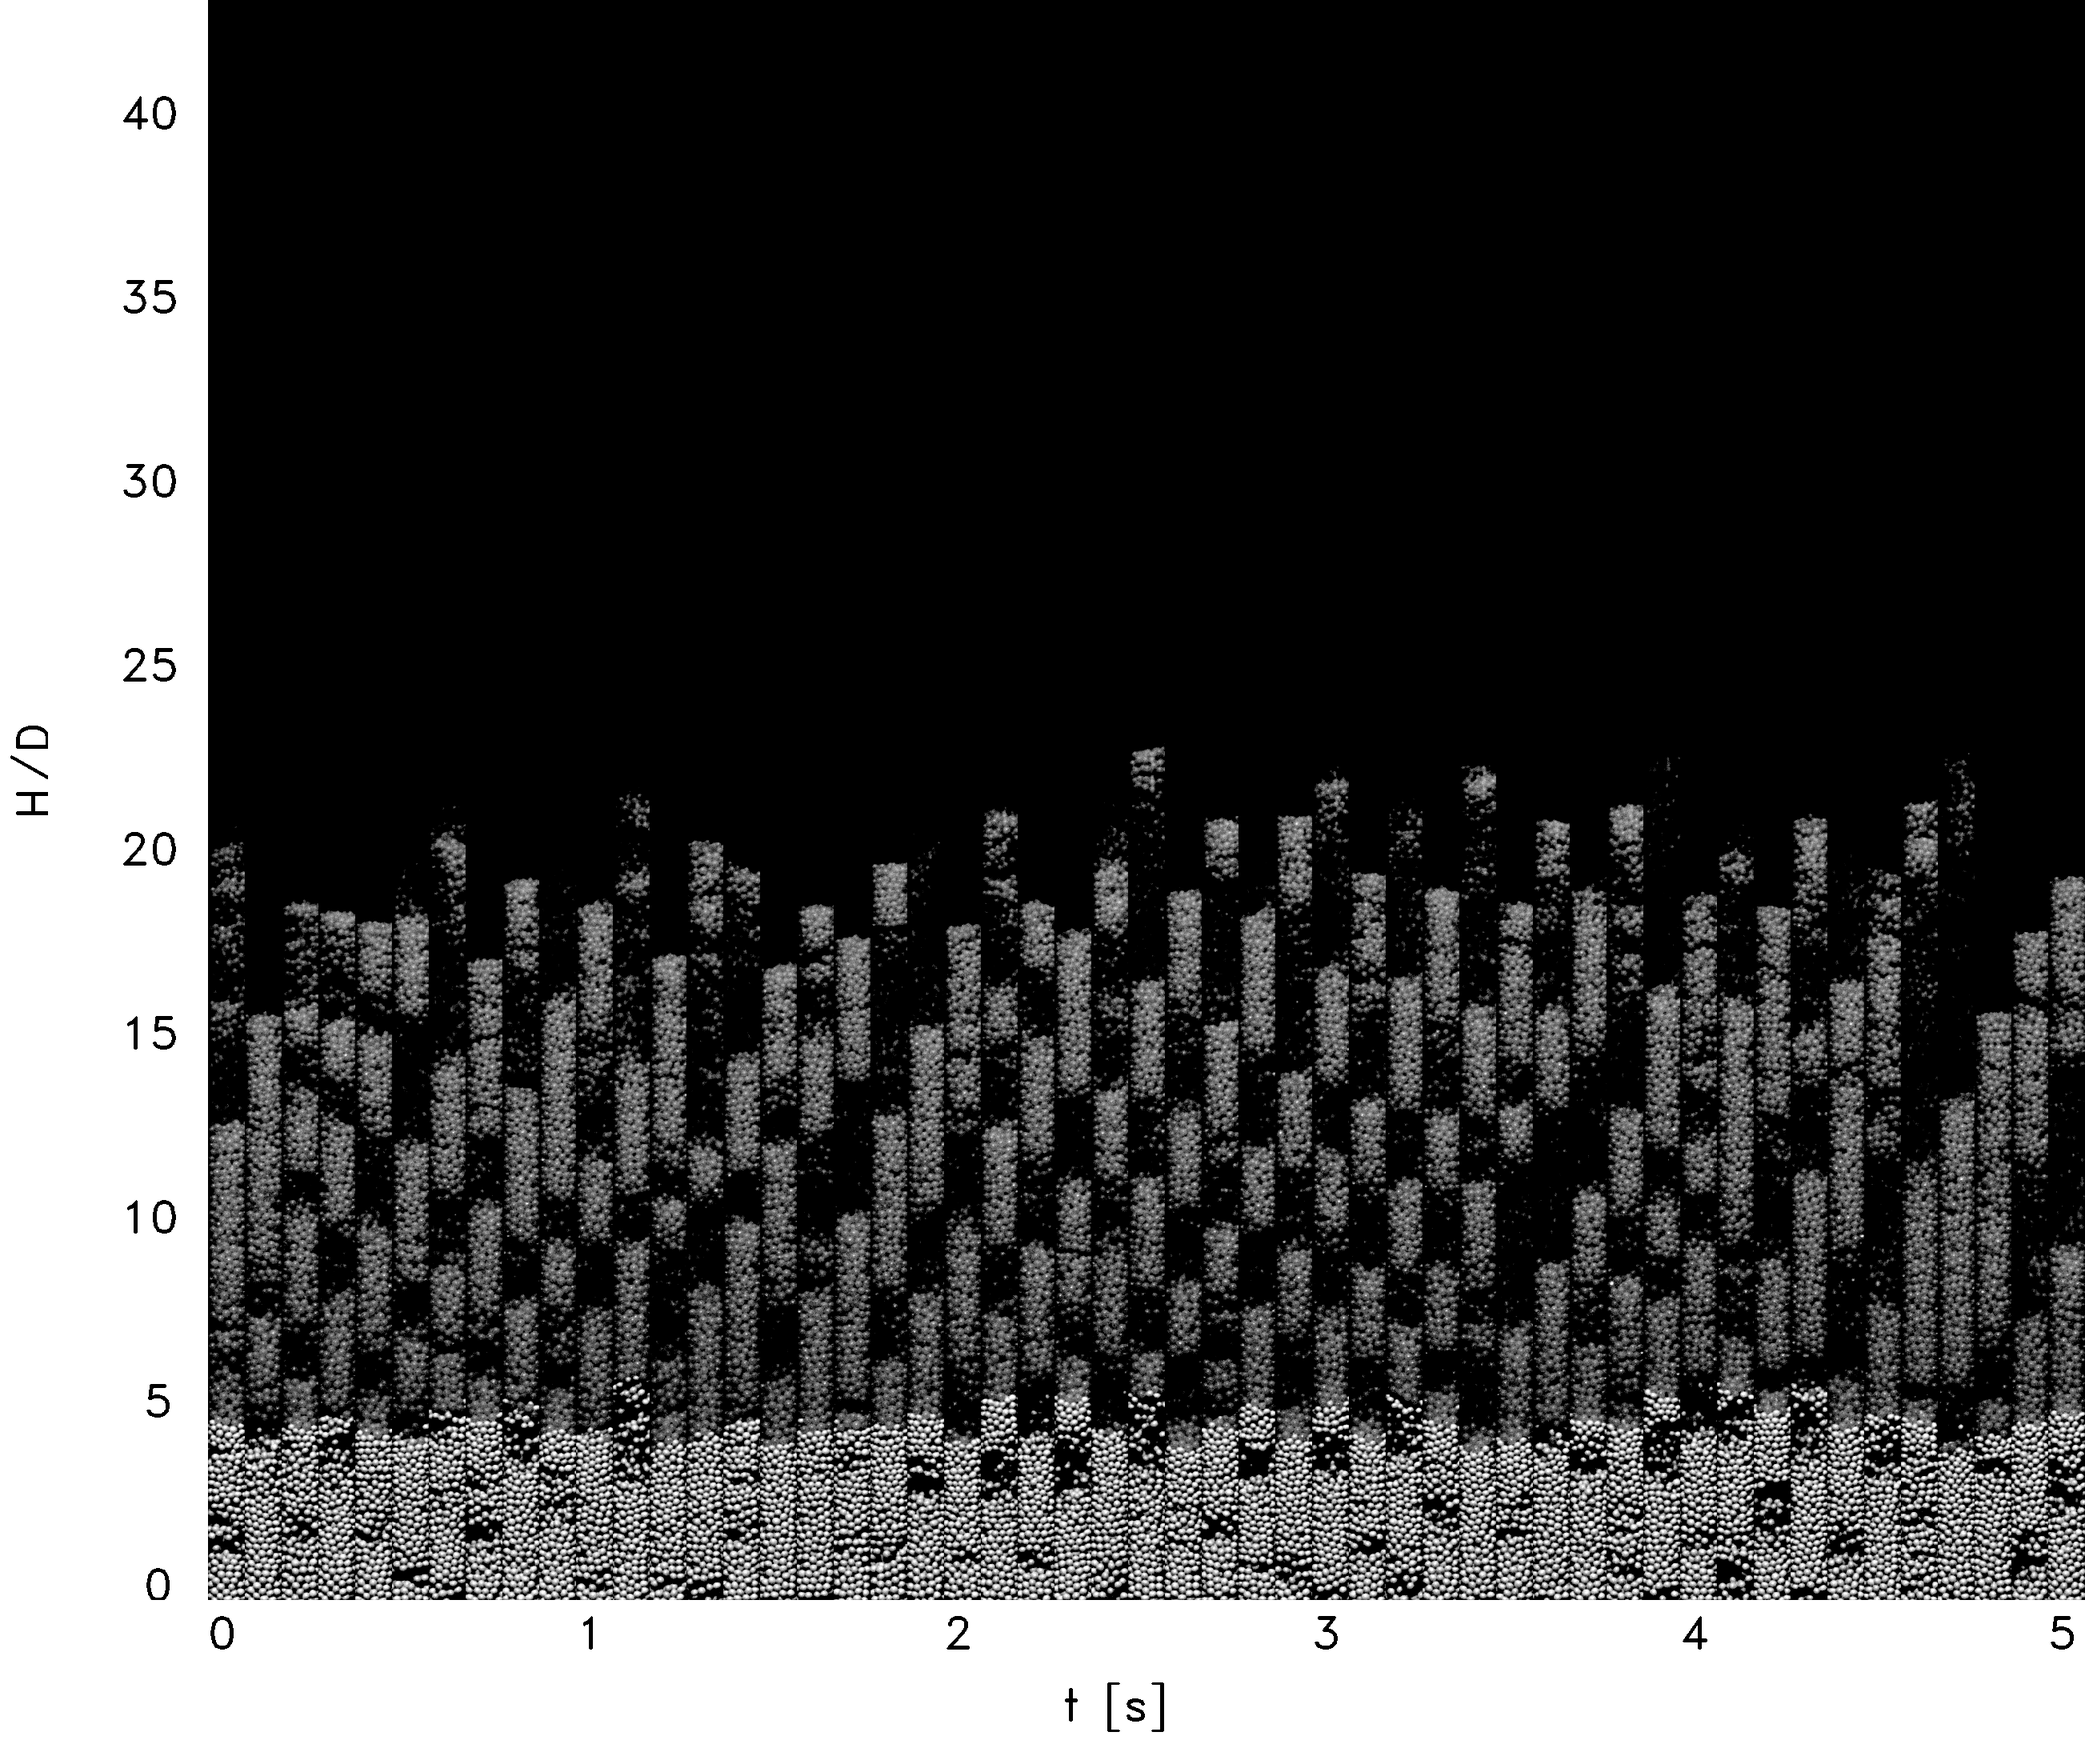
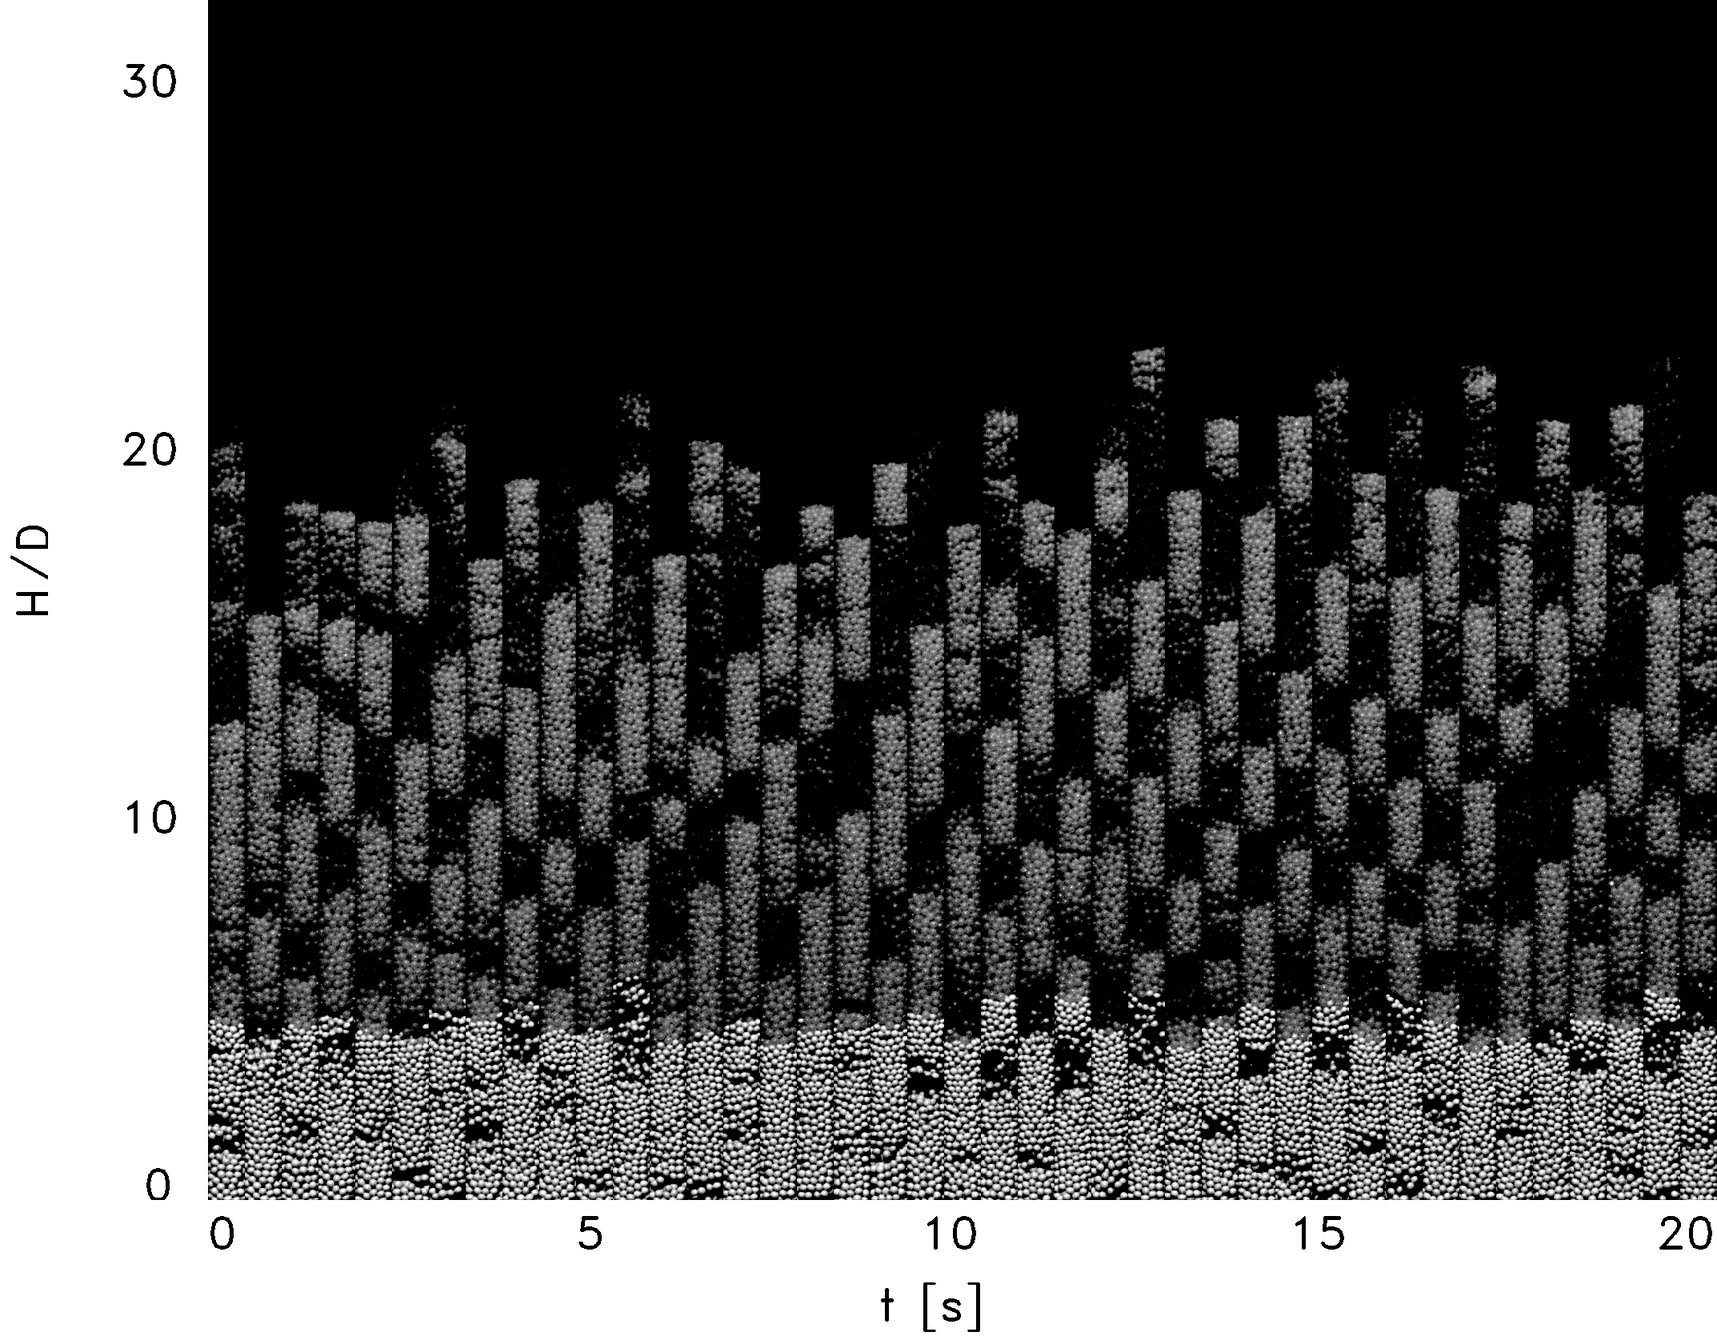
qua jul 19 14:24:14 -03 2023

diff --git a/src/joinImages.cpp b/src/joinImages.cpp
@@ -8,6 +8,8 @@
 #include <vector>
 #include <iostream>
 #include <sstream>
+#include "tclap/CmdLine.h"
+#include "tclap/ValueArg.h"
 
 int frameRate = 1000; //adjust frame rate
 bool makeLegend = true; //prints legends
@@ -86,65 +88,52 @@ void firstPass(cv::Mat& image, int& right, int& left, int& bottom)
 //	cv::destroyWindow("Lines");
 }
 
-// main function
-int main(int argc, char *argv[])
+// join function
+int join(std::string ImagesPath, int initFrame, int skipFrame, int endFrame, int imageHeight, int frameRate, bool makeLegend, int yscale, int numberXdivisions, float textScale)
 {
-	// Constants
-	int initFrame = std::stoi(std::string(argv[2]));
-	int skipFrame = std::stoi(std::string(argv[3]));
-	int endFrame  = std::stoi(std::string(argv[4]));
-	int height = std::stoi(std::string(argv[5]));
-	float D = 3.0; // bed diameter
-	
-	std::string path(argv[1]);
-	//std::cout << path << std::endl;
-
-	//cv::namedWindow("Joined Image",cv::WINDOW_NORMAL);
-	
 	// first frame
 	std::stringstream initFrameStr;
 	initFrameStr << std::setfill('0') << std::setw(5) << initFrame;
 //	initFrame += skipFrame;
-	cv::Mat joinedImage = imread(path + "image_" + initFrameStr.str() + ".tif", cv::IMREAD_GRAYSCALE);
+	cv::Mat joinedImage = imread(ImagesPath + "image_" + initFrameStr.str() + ".tif", cv::IMREAD_GRAYSCALE);
 	cv::rotate(joinedImage, joinedImage, cv::ROTATE_90_CLOCKWISE);
 
 	// find the borders of the bed
 	int right, left, bottom;
 	firstPass(joinedImage, right, left, bottom);
-	float scale = (float)(left - right) / 3.0; // bed scale
+	float scale = (float)(left - right); // bed scale
 	
 	// text scale
-	float ImScale = (left - right) * 0.04;
+	float ImScale = (left - right) * textScale;
 
 //	cv::Mat labelImage(60, joinedImage.rows, CV_8U, cv::Scalar(255));
 	// y-axis label
 	if (makeLegend)
 	{
-		cv::Mat labelImage(60, height, CV_8U, cv::Scalar(255));
-		cv::putText(labelImage, "H/D", cv::Point(height/2 - 25, 60), cv::FONT_HERSHEY_DUPLEX, ImScale, cv::Scalar(0), 2);
+		cv::Mat labelImage(60, imageHeight, CV_8U, cv::Scalar(255));
+		cv::putText(labelImage, "H/D", cv::Point(imageHeight/2 - 25, 60), cv::FONT_HERSHEY_DUPLEX, ImScale, cv::Scalar(0), 2);
 		cv::rotate(labelImage, labelImage, cv::ROTATE_90_COUNTERCLOCKWISE);
 	
 		std::stringstream heightlabel;
 		heightlabel << std::setfill(' ') << std::setw(3) << 0;
 
 		// y-axis values
-		cv::Mat scaleImage(height, 200, CV_8U, cv::Scalar(255));
-		cv::Point origin(60,height);
+		cv::Mat scaleImage(imageHeight, 200, CV_8U, cv::Scalar(255));
+		cv::Point origin(60,imageHeight);
 		cv::putText(scaleImage, heightlabel.str().c_str(), origin, cv::FONT_HERSHEY_DUPLEX, ImScale, cv::Scalar(0), 2);
 	
-		int step = 5;
-		int heightTxt = step;
+		int heightTxt = yscale;
 		while (true)
 		{
 			heightlabel.str(std::string());
 			heightlabel << std::setfill(' ') << std::setw(3) << heightTxt;
-			origin -= cv::Point(0,(int)(step*scale*D));
+			origin -= cv::Point(0,(int)(yscale * scale));
 	
 			if (origin.y <= 0)
 				break;
 
 			cv::putText(scaleImage, heightlabel.str().c_str(), origin, cv::FONT_HERSHEY_DUPLEX, ImScale, cv::Scalar(0), 2);
-			heightTxt += step;
+			heightTxt += yscale;
 		}
 
 
@@ -153,12 +142,12 @@ int main(int argc, char *argv[])
 		//cv::waitKey(0);
 
 	//	cv::Rect frame(right,0,left-right,joinedImage.rows);
-		cv::Rect frame(right,joinedImage.rows-height,left-right,height);
+//		cv::Rect frame(right,joinedImage.rows-imageHeight,left-right,imageHeight);
 		cv::hconcat(labelImage, scaleImage, joinedImage);
 	}
 	else
 	{
-		cv::Rect frame(right,bottom-height,left-right,height);
+		cv::Rect frame(right,bottom-imageHeight,left-right,imageHeight);
 		joinedImage = joinedImage(frame);
 	}
 
@@ -169,13 +158,13 @@ int main(int argc, char *argv[])
 		std::stringstream frameNumber;
 		frameNumber << std::setfill('0') << std::setw(5) << frames;
 
-		cv::Mat frameImage = cv::imread(path + "image_" + frameNumber.str() + ".tif", cv::IMREAD_GRAYSCALE);
+		cv::Mat frameImage = cv::imread(ImagesPath + "image_" + frameNumber.str() + ".tif", cv::IMREAD_GRAYSCALE);
 		cv::rotate(frameImage, frameImage, cv::ROTATE_90_CLOCKWISE);
 
 //		int right, left; 
 //		firstPass(frameImage, right, left);
 //		cv::Rect framerect(right,0,left-right,frameImage.rows);
-		cv::Rect framerect(right,bottom-height,left-right,height);
+		cv::Rect framerect(right,bottom-imageHeight,left-right,imageHeight);
 		frameImage = frameImage(framerect);
 		
 		cv::hconcat(joinedImage, frameImage, joinedImage);
@@ -198,14 +187,14 @@ int main(int argc, char *argv[])
 		cv::putText(timeLabelImage, timelabel.str().c_str(), xorigin, cv::FONT_HERSHEY_DUPLEX, ImScale, cv::Scalar(0), 2);
 	
 		float endTime = (endFrame - initFrame) / (frameRate);
-		float step = endTime / 5.0;
+		float step = endTime / (numberXdivisions * 1.0);
 //		std::cout << endTime << " : " << step << std::endl;
 		float heightTxt = step;
 		while (true)
 		{
 			timelabel.str(std::string());
 			timelabel << std::setfill(' ') << std::setw(3) << heightTxt;
-			xorigin += cv::Point((int)(step*frameRate/skipFrame*(left - right)),0);
+			xorigin += cv::Point((int)(step * frameRate / skipFrame * (left - right)),0);
 //			std::cout << step*frameRate/skipFrame*(left-right) << " , " << xorigin.x << std::endl;
 
 			if (xorigin.x >= joinedImage.cols)
@@ -222,3 +211,85 @@ int main(int argc, char *argv[])
 	return 0;
 }
 
+// main function
+int main(int argc, char** argv)
+{
+	// Define variables
+	int frameRate = 1000;
+	int imageHeight = 1000;
+	int initFrame, skipFrame, endFrame; // first frame, frames to skip ans last frame
+	bool makeLegend = true;
+	int yscale = 5, numberXdivisions = 5; // H/D smallest division and number of times in x axis
+	float textScale = 0.04; // text scale for labels
+	std::string ImagesPath; // path to the frames
+
+	try
+	{
+		// Build command line arguments for this program
+		TCLAP::CmdLine cmd("Program to join frames", ' ', "1.0");
+
+		// Requires a path to access the frames
+		TCLAP::ValueArg<std::string> FramesPathTC("p", "FramesPath", "[P]ath to the frames to be joined", true, "", "string");
+		cmd.add(FramesPathTC);
+
+		// Firt frame to be joined
+		TCLAP::ValueArg<int> FirstFrameTC("i", "FirstFrame", "[I]nitial frame to be joined", true, 0, "int");
+		cmd.add(FirstFrameTC);
+
+		// Last frame to be joined
+		TCLAP::ValueArg<int> LastFrameTC("l", "EndFrame", "[L]ast frame to be joined", true, 1000, "int");
+		cmd.add(LastFrameTC);
+
+		// Interval of frames to skip
+		TCLAP::ValueArg<int> SkipFrameTC("d", "SkipFrames", "[D]elta of frames between consecutive images", true, 50, "int");
+		cmd.add(SkipFrameTC);
+
+		// Height of the final image
+		TCLAP::ValueArg<int> HeightTC("v", "ImageHeight", "[V]ertical size of the final image (pixels)", true, imageHeight, "int");
+		cmd.add(HeightTC);
+
+		// Frame rate
+		TCLAP::ValueArg<int> frameRateTC("f", "frameRate", "[F]rame rate of images (default 1000)", false, frameRate, "int");
+		cmd.add(frameRateTC);
+
+		// Prints axis labels
+		TCLAP::ValueArg<bool> makeLabelsTC("a", "makeAxis", "Prints the [A]xis (default true)", false, makeLegend, "bool");
+		cmd.add(makeLabelsTC);
+
+		// Height smallest division
+		TCLAP::ValueArg<int> yscaleTC("y", "yScale", "Smallest division of [Y]-axis (default H/D = 5)", false, yscale, "int");
+		cmd.add(yscaleTC);
+
+		// Number of time divisions
+		TCLAP::ValueArg<int>numberTimeLabelsTC("x", "xDivisions", "Number of times in the [X]-axis (default 5)", false, numberXdivisions, "int");
+		cmd.add(numberTimeLabelsTC);
+
+		// Text scale for labels
+		TCLAP::ValueArg<float> textScaleTC("s", "textScale", "Text [S]cale for the labels (default 0.04)", false, textScale, "float");
+		cmd.add(textScaleTC);
+
+		// reads the command line arguments
+		cmd.parse(argc, argv);
+
+		// Atribute the variables
+		ImagesPath = FramesPathTC.getValue();
+		initFrame = FirstFrameTC.getValue();
+		skipFrame = SkipFrameTC.getValue();
+		endFrame = LastFrameTC.getValue();
+		imageHeight = HeightTC.getValue();
+		frameRate = frameRateTC.getValue();
+		makeLegend = makeLabelsTC.getValue();
+		yscale = yscaleTC.getValue();
+		numberXdivisions = numberTimeLabelsTC.getValue();
+		textScale = textScaleTC.getValue();
+	}
+	catch (TCLAP::ArgException &e)
+	{
+		std::cerr << "error: " << e.error() << " for arg " << e.argId() << std::endl;
+	}
+
+	int result = join(ImagesPath, initFrame, skipFrame, endFrame, imageHeight, frameRate, makeLegend, yscale, numberXdivisions, textScale);
+
+	return result;
+}
+		
